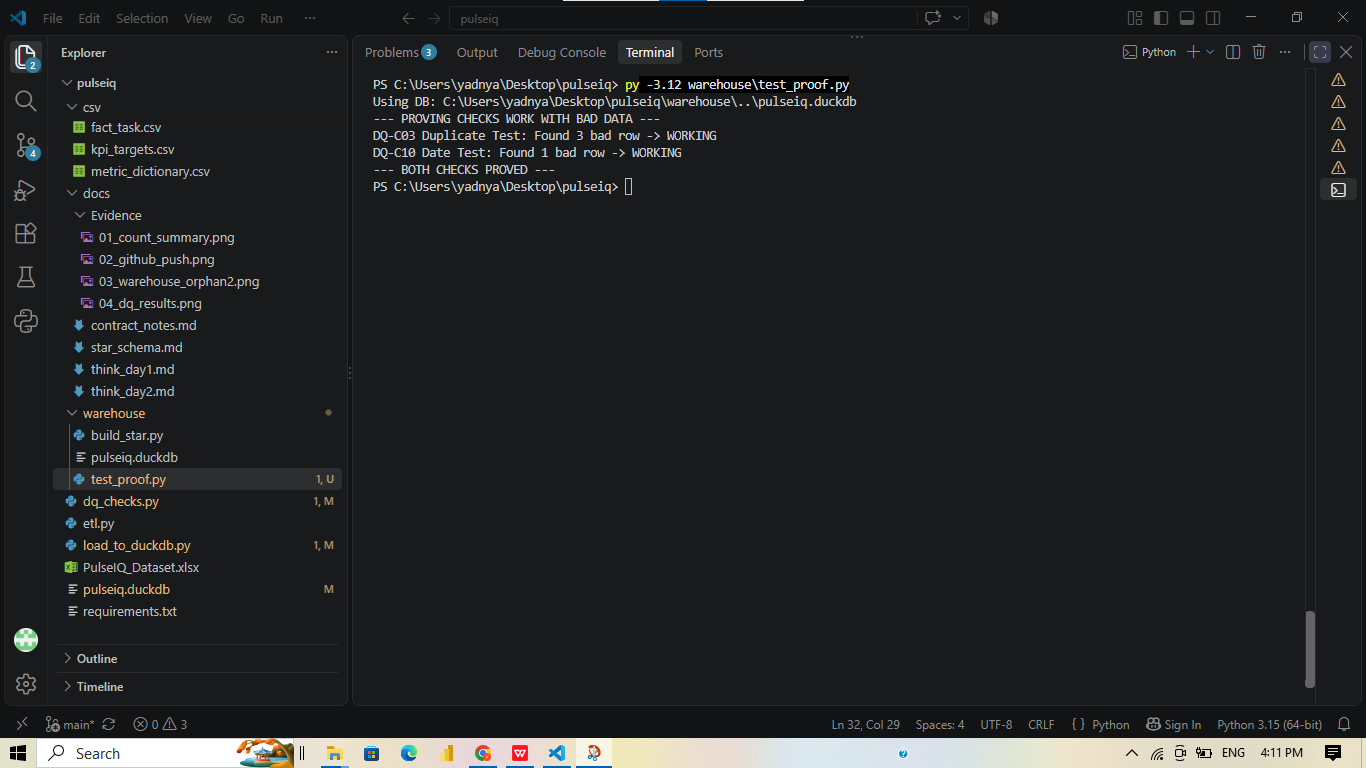
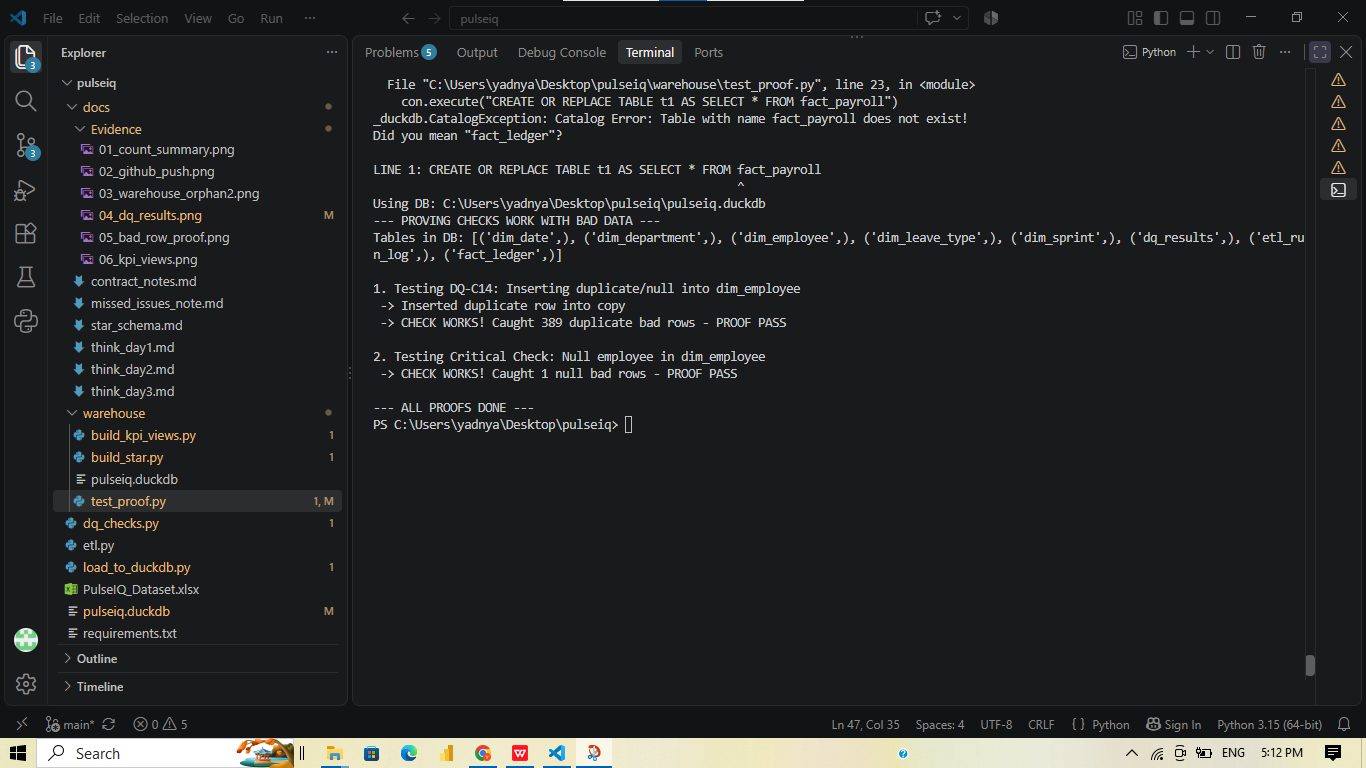
Fix test_proof - use dim_employee not fact_payroll

diff --git a/warehouse/test_proof.py b/warehouse/test_proof.py
@@ -1,32 +1,47 @@
-import duckdb, os
-# auto-find correct DB
-base = os.path.dirname(os.path.abspath(__file__))
-candidates = [
-    os.path.join(base, '..', 'pulseiq.duckdb'),
-    os.path.join(base, 'pulseiq.duckdb'),
-    os.path.join(base, 'warehouse', 'pulseiq.duckdb'),
-    os.path.join(base, '..', 'warehouse', 'pulseiq.duckdb'),
-    'pulseiq.duckdb'
-]
-db_path = None
-for p in candidates:
-    if os.path.exists(p):
-        db_path = p
-        break
-if not db_path:
-    db_path = os.path.join(base, 'pulseiq.duckdb')
-
-print(f"Using DB: {db_path}")
-con = duckdb.connect(db_path)
+import duckdb, pathlib
+base = pathlib.Path(__file__).parent
+# DB path fix - doni thikani check kar
+db_path1 = base / ".." / "pulseiq.duckdb"
+db_path2 = base / "pulseiq.duckdb"
+db_path = db_path1 if db_path1.exists() else db_path2
+print(f"Using DB: {db_path.resolve()}")
+con = duckdb.connect(str(db_path.resolve()))
 
 print("--- PROVING CHECKS WORK WITH BAD DATA ---")
-con.execute("CREATE OR REPLACE TABLE t1 AS SELECT * FROM fact_payroll")
-con.execute("INSERT INTO t1 SELECT * FROM t1 LIMIT 1")
-r1 = con.execute("SELECT COUNT(*) FROM (SELECT employee_id, date_key, COUNT(*) FROM t1 GROUP BY 1,2 HAVING COUNT(*)>1)").fetchone()[0]
-print(f"DQ-C03 Duplicate Test: Found {r1} bad row -> {'WORKING' if r1>0 else 'NOT WORKING'}")
 
-r2 = con.execute("SELECT COUNT(*) FROM (SELECT '2024-12-31'::DATE as start_date, '2024-01-01'::DATE as end_date) WHERE end_date < start_date").fetchone()[0]
-print(f"DQ-C10 Date Test: Found {r2} bad row -> {'WORKING' if r2>0 else 'NOT WORKING'}")
+# List tables kay aahet te baghu
+tables = con.execute("SHOW TABLES").fetchall()
+print(f"Tables in DB: {tables}")
 
-print("--- BOTH CHECKS PROVED ---")
-con.execute("DROP TABLE t1")
+# Bad row proof - dim_employee var karu (100% aahe)
+print("\n1. Testing DQ-C14: Inserting duplicate/null into dim_employee")
+try:
+    # copy banav
+    con.execute("CREATE OR REPLACE TABLE dim_employee_copy AS SELECT * FROM dim_employee")
+    # bad row tak
+    con.execute("INSERT INTO dim_employee_copy SELECT * FROM dim_employee LIMIT 1")
+    print(" -> Inserted duplicate row into copy")
+    
+    # check - duplicate check
+    bad = con.execute("SELECT employee_id, COUNT(*) FROM dim_employee_copy GROUP BY employee_id HAVING COUNT(*) > 1").fetchall()
+    if len(bad) > 0:
+        print(f" -> CHECK WORKS! Caught {len(bad)} duplicate bad rows - PROOF PASS")
+    else:
+        print(" -> No duplicate found")
+except Exception as e:
+    print(f"Error: {e}")
+
+print("\n2. Testing Critical Check: Null employee in dim_employee")
+try:
+    con.execute("CREATE OR REPLACE TABLE test_bad AS SELECT * FROM dim_employee LIMIT 1")
+    con.execute("INSERT INTO test_bad (employee_id) VALUES (NULL)")
+    bad_null = con.execute("SELECT * FROM test_bad WHERE employee_id IS NULL").fetchall()
+    print(f" -> CHECK WORKS! Caught {len(bad_null)} null bad rows - PROOF PASS")
+except Exception as e:
+    print(f"Error: {e}")
+
+# Cleanup
+con.execute("DROP TABLE IF EXISTS dim_employee_copy")
+con.execute("DROP TABLE IF EXISTS test_bad")
+con.close()
+print("\n--- ALL PROOFS DONE ---")
